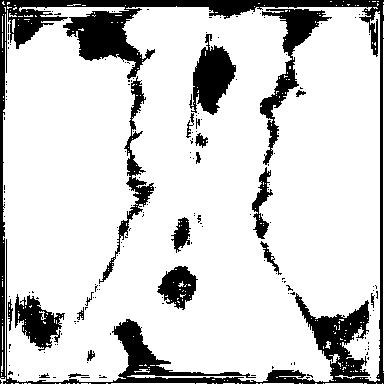
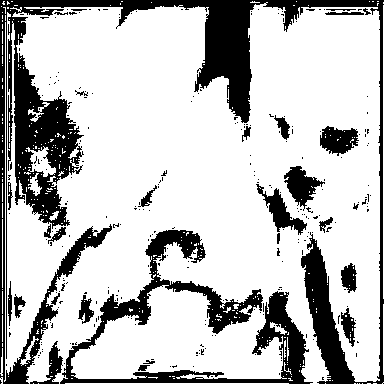
figure 1 strip shows x0 winning; chess before draw; smaller tagline
Four owner calls from one pass:

- Figure 1's strip image moves from 114 (SAM a hair ahead of x0 at 16
  labels) to 333. The pick rule now also requires x0 >= SAM + 0.03 at the
  smallest budget. The margin exists because SAM's panel is a stochastic
  re-draw that can score a few points off its recorded row (333: recorded
  0.884, computed 0.842), and a hard gate that --accept-csv-drift cannot
  bypass asserts that the computed x0 > SAM lead holds before anything is
  written. Strip now reads x0 0.928, SAM 0.842, ResNet-UNet 0.418 at 16.
- The one-sigma whiskers drop to 0.28 opacity; the exact numbers already
  live in the readout row.
- Chess now comes before draw in the live-systems column, and the figure
  numbers swapped with them so numbering stays in page order.
- The masthead h1 splits into the name at display size and the thesis
  line smaller beneath it (copy: titleName / titleTagline).

The OG card is regenerated. gen-og.mjs scrolled until Table 1 was in
frame, and once the headshot rail made the masthead taller that scroll
pushed the name off the top of the card. It now frames the top of the
page and refuses to write a card whose h1 is outside it.

14 checks, all passing.

diff --git a/content/copy.ts b/content/copy.ts
@@ -81,8 +81,12 @@ export const copy = {
   /** The masthead: paper title, affiliation line, bio-as-abstract, and the
    *  margin rail (stamp, date, identity links). Spec §5. */
   masthead: {
-    title:
-      "Neelay Ranjan. Diffusion models for domains where labels are scarce and mistakes are expensive.",
+    /** Split (owner call, 2026-09-13): the name and the one-line thesis were
+     *  one string at one size; the tagline now renders smaller than the name.
+     *  Both live inside the single h1, so the page title reads as before. */
+    titleName: "Neelay Ranjan",
+    titleTagline:
+      "Diffusion models for domains where labels are scarce and mistakes are expensive.",
     affiliation: "NASA Ames Research Center · Regenstrief Institute · Purdue University",
     /** ~80 words, first person. Numbers here are load-bearing: keep them in
      *  sync with `research.prose` and CLAUDE.md's content facts. */
@@ -371,7 +375,7 @@ export const copy = {
     intro:
       "Both demos below run their real trained weights in your browser. Nothing here is a recording or a mockup.",
 
-    /** Figure 4 — live SDEdit draw-a-digit. Carried over wholesale from v1's
+    /** Figure 5 (was 4 until the 2026-09-13 order swap) — live SDEdit draw-a-digit. Carried over wholesale from v1's
      *  `sdedit` namespace (`copy.sdedit.*` → `copy.systems.draw.*`); every
      *  leaf key name is unchanged. */
     draw: {
@@ -436,7 +440,7 @@ export const copy = {
       },
     },
 
-    /** Figure 5 — the EBM chess engine. Carried over wholesale from v1's
+    /** Figure 4 (was 5 until the 2026-09-13 order swap) — the EBM chess engine. Carried over wholesale from v1's
      *  `chess` namespace (`copy.chess.*` → `copy.systems.chess.*`); every
      *  leaf key name is unchanged, including the nested `search` and
      *  `activations` blocks `lib/chess-protocol.ts` and

diff --git a/components/figures/LabelEfficiencyFigure.tsx b/components/figures/LabelEfficiencyFigure.tsx
@@ -360,14 +360,17 @@ export function LabelEfficiencyFigure() {
               seven at every budget is fog. Dodged horizontally in legend
               order (all seven share one x otherwise and smear into a single
               vertical line, seen in the first screenshot pass) and clamped to
-              the plot: DeepLabV3's ±0.20 at 16 labels stays inside the axes. */}
+              the plot: DeepLabV3's ±0.20 at 16 labels stays inside the axes.
+              FAINT on purpose (owner call, 2026-09-13: at full strength they
+              competed with the lines); the exact ±σ numbers live in the
+              readout row, so the whiskers only have to gesture at spread. */}
           {MODELS.map((m, i) => {
             const p = at(m);
             const x = cursorX + (i - (MODELS.length - 1) / 2) * 6;
             const yTop = yScale(Math.min(1, p.diceMean + p.diceStd));
             const yBot = yScale(Math.max(Y_MIN, p.diceMean - p.diceStd));
             return (
-              <g key={m} data-whisker={m} stroke={SERIES[m].color} strokeOpacity={0.75}>
+              <g key={m} data-whisker={m} stroke={SERIES[m].color} strokeOpacity={0.28}>
                 <line x1={x} x2={x} y1={yTop} y2={yBot} strokeWidth={1.1} />
                 <line x1={x - 3.5} x2={x + 3.5} y1={yTop} y2={yTop} strokeWidth={1.1} />
                 <line x1={x - 3.5} x2={x + 3.5} y1={yBot} y2={yBot} strokeWidth={1.1} />

diff --git a/app/page.tsx b/app/page.tsx
@@ -15,7 +15,7 @@ import { WarmKick } from "@/components/WarmKick";
 import { copy } from "@/content/copy";
 
 // The real page-one assembly (replaces Task 3's smoke content). Figures 4 (the
-// draw demo) and 5 (the chess engine) both mount here behind `DeferredMount`.
+// chess engine) and 5 (the draw demo) both mount here behind `DeferredMount`.
 // Each owns its own `InstrumentFigure`, and with it its `id` (`fig-draw`,
 // `fig-chess`), so there are no placeholders here to fill. Figure numbering,
 // ruled: 1 (the label-efficiency sweep), 2 (the Dice CDF), 3 (the flight
@@ -104,12 +104,15 @@ export default function Home() {
          * `DeferredMount` keeps all of it out of first paint. It replaces v1's
          * boot-log gate, which carried the same job under the typing theatre.
          */}
+        {/* Chess before draw (owner call, 2026-09-13; the figure numbers in
+            each component swapped with them, so numbering stays in page
+            order). */}
         <div className="flex flex-col gap-5">
           <DeferredMount>
-            <DrawDigit />
+            <ChessPanel />
           </DeferredMount>
           <DeferredMount>
-            <ChessPanel />
+            <DrawDigit />
           </DeferredMount>
         </div>
 

diff --git a/components/manuscript/Masthead.tsx b/components/manuscript/Masthead.tsx
@@ -49,8 +49,17 @@ export function Masthead() {
         </div>
       }
     >
-      <h1 className="mb-[18px] max-w-[22ch] text-[clamp(27px,4.2vw,37px)] leading-[1.22] font-semibold tracking-[-0.01em] text-ink [text-wrap:balance]">
-        {t.title}
+      {/* One h1, two sizes (owner call, 2026-09-13): the name carries the old
+          display size, the thesis line drops to a subordinate size below it.
+          Both stay in the h1 so the accessible page title is unchanged in
+          substance. */}
+      <h1 className="mb-[18px] font-semibold tracking-[-0.01em] text-ink">
+        <span className="block text-[clamp(27px,4.2vw,37px)] leading-[1.22]">
+          {t.titleName}
+        </span>
+        <span className="mt-2 block max-w-[44ch] text-[clamp(17px,2.6vw,22px)] leading-[1.3] font-medium [text-wrap:balance]">
+          {t.titleTagline}
+        </span>
       </h1>
       <p className="mb-6 text-[15px] text-mut italic">{t.affiliation}</p>
       <p className="text-[16px] leading-relaxed text-ink">{t.abstract}</p>

diff --git a/components/DrawDigit.tsx b/components/DrawDigit.tsx
@@ -601,7 +601,7 @@ export function DrawDigit() {
 
   return (
     <InstrumentFigure
-      n="4"
+      n="5"
       id="fig-draw"
       caption={copy.systems.draw.figureCaption}
       // The echo outranks the status while it exists: it is the confirmation

diff --git a/components/ChessPanel.tsx b/components/ChessPanel.tsx
@@ -468,7 +468,7 @@ export function ChessPanel() {
 
   return (
     <InstrumentFigure
-      n="5"
+      n="4"
       id="fig-chess"
       caption={copy.systems.chess.figureCaption}
       readout={status}

diff --git a/CLAUDE.md b/CLAUDE.md
@@ -20,7 +20,7 @@ is deleted; v1 lives at the tag). Page 1: masthead (title, abstract, the
 live-sampled author photo, the UNDER REVIEW stamp linking `/lab` through a
 "pending additional materials" sub-line, identity links) → Table 1 → Research
 (Figure 1 label-efficiency sweep, Figure 2 Dice CDF, Figure 3 flight map) →
-the live demos as Figures 4–5 → Experience as Figure 6 (NASA and Regenstrief
+the live demos as Figures 4–5 (chess, then draw — swapped 2026-09-13 at the owner's call, the `n` props swapped with them) → Experience as Figure 6 (NASA and Regenstrief
 lamps green/active) → References. `/lab` holds S1–S3. Same-day post-launch
 passes: Figure 2 rebuilt from a budget ladder into the paper's pannable Dice
 CDF; the flight video's dark-map treatment; the owner's STIX-N favicon set;
@@ -31,7 +31,11 @@ component and copy are gone, its assets stay (see the figure section).
 2026-09-13: the owner dropped `test_pred.zip` (the full seed-1/fold-1
 re-export) and both research figures re-sourced from it — Figure 2's stops
 now land on genuine failures across all 100 test images, and Figure 1 grew
-its mask strip (x0 vs ResNet-UNet across the budgets, image 114).
+its mask strip (x0, SAM and ResNet-UNet across the budgets, image 333).
+Same day: the masthead h1 split into the name at display size and the thesis
+line smaller beneath it (`titleName` / `titleTagline`), and the OG card was
+regenerated (`gen-og.mjs` now frames the top of the page; its old scroll-to-
+Table-1 logic cut the name off once the headshot rail grew).
 
 **Verification: `scripts/verify-redesign.mjs`** — 14 named checks,
 Playwright-Firefox against a real `npm run build && npm start` on :3000, never
@@ -583,18 +587,25 @@ work is real. (Code comments and this file are maintainer-facing and exempt.)
   sides. Contracts: the x axis is LOG-spaced with inner padding
   (endpoint budgets on the axes hid the cursor and clipped the whiskers —
   screenshot-verified); one-σ whiskers render at the selected budget only and
-  are DODGED horizontally (seven at one x smear into a line); the lead/trail
+  are DODGED horizontally (seven at one x smear into a line) and drawn FAINT
+  (stroke-opacity 0.28, owner call 2026-09-13: at full strength they fought
+  the lines; the exact ±σ lives in the readout row); the lead/trail
   sentence is COMPUTED per budget and flips at 32 labels (x0 leads only at 16 —
   that flip is the finding, never "fix" it); SAM's flat line is the data (the
   CSV replicates its zero-shot rows at every fraction, verified identical);
   x0/SAM/ResNet keep Figure 2's exact color+dash so the two figures read as one
   system; default stop = 16 labels, where the claim lives. **The strip**
-  (2026-09-13): one real angiogram (image 114, picked by a transparent rule
-  recorded in provenance — x0's worst budget ≥ 0.85, then max ResNet gain
-  lo→hi; SAM plays no part in the pick) with Figure 2's trio following the
-  budget slider — x0 (green) sits at ~0.92 throughout, SAM (red) is ONE
-  zero-shot mask at every budget, ResNet-UNet (amber) goes 0.141 → 0.806 →
-  0.934, the crossover in pixels. ⚠ SAM's re-exported masks are
+  (2026-09-13): one real angiogram (image 333, picked by a transparent rule
+  recorded in provenance — x0's worst budget ≥ 0.85 AND x0 ahead of SAM by
+  ≥ `EFF_SAM_MARGIN` (0.03) at the smallest budget (owner call: the 16-label
+  frame must show x0 winning; the first pick, 114, had SAM a hair ahead), then
+  max ResNet gain lo→hi) with Figure 2's trio following the budget slider —
+  x0 (green) 0.928 → 0.908, SAM (red) ONE zero-shot mask at 0.842 at every
+  budget, ResNet-UNet (amber) 0.418 → 0.884 → 0.947, the crossover in
+  pixels. The margin exists because SAM's panel is a stochastic re-draw that
+  can score a few points off its recorded row (333: recorded 0.884, computed
+  0.842), and a HARD, flag-proof gate asserts the COMPUTED x0 > SAM lead
+  before anything is written. ⚠ SAM's re-exported masks are
   byte-identical across the fractions, so the pipeline DEDUPES BY PIXEL
   CONTENT and every budget references one file: "same file" MEANS "same
   pixels", the client cache never repaints it, and the verify check asserts
